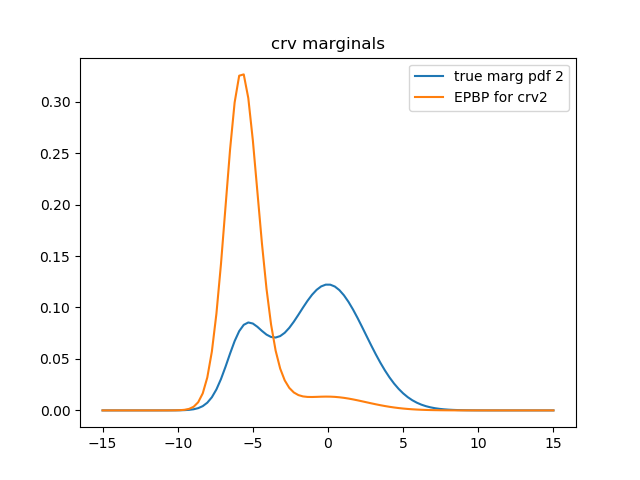
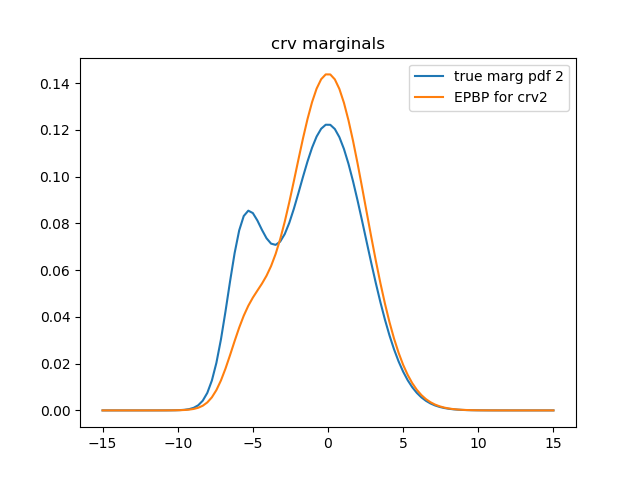
change seed from 4 to 5 in hybrid_mln_experiment got the same EPBP failure mode back (like in 30e3a17), lol

diff --git a/osi/hybrid_mln_experiment.py b/osi/hybrid_mln_experiment.py
@@ -11,7 +11,7 @@ import numpy as np
 import time
 from copy import copy
 
-seed = 4
+seed = 5
 utils.set_seed(seed)
 
 from hybrid_gaussian_mrf import HybridGaussianSampler
